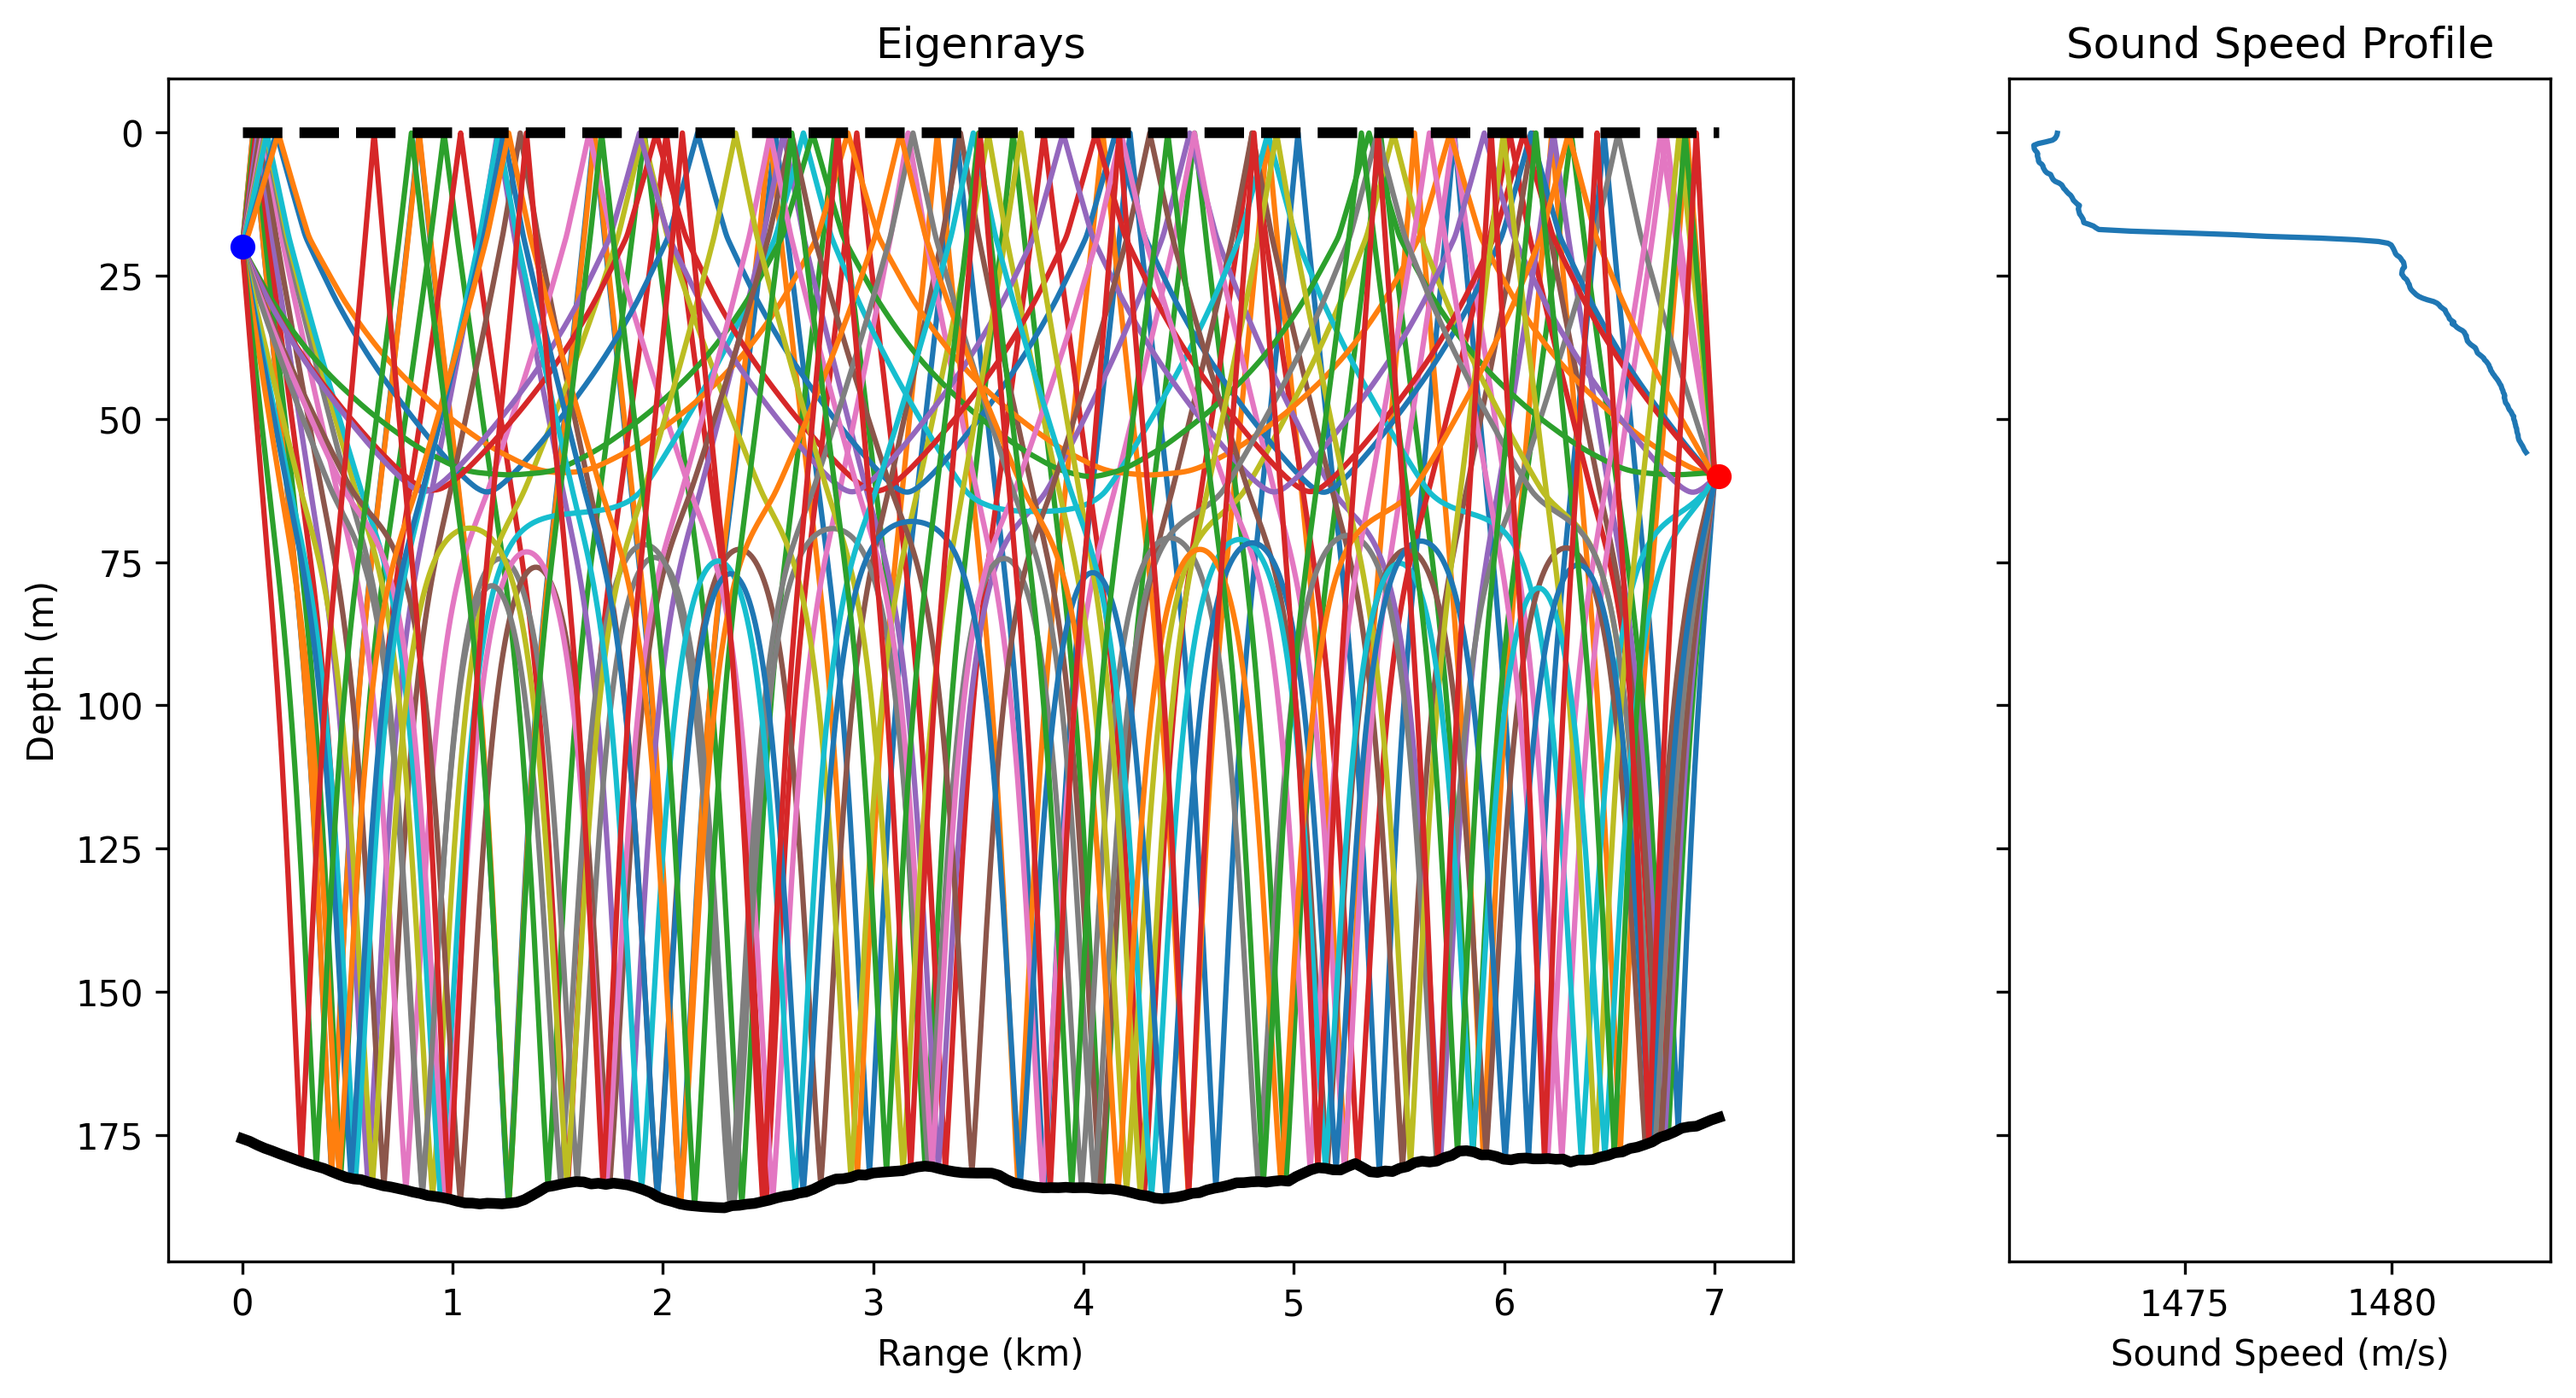
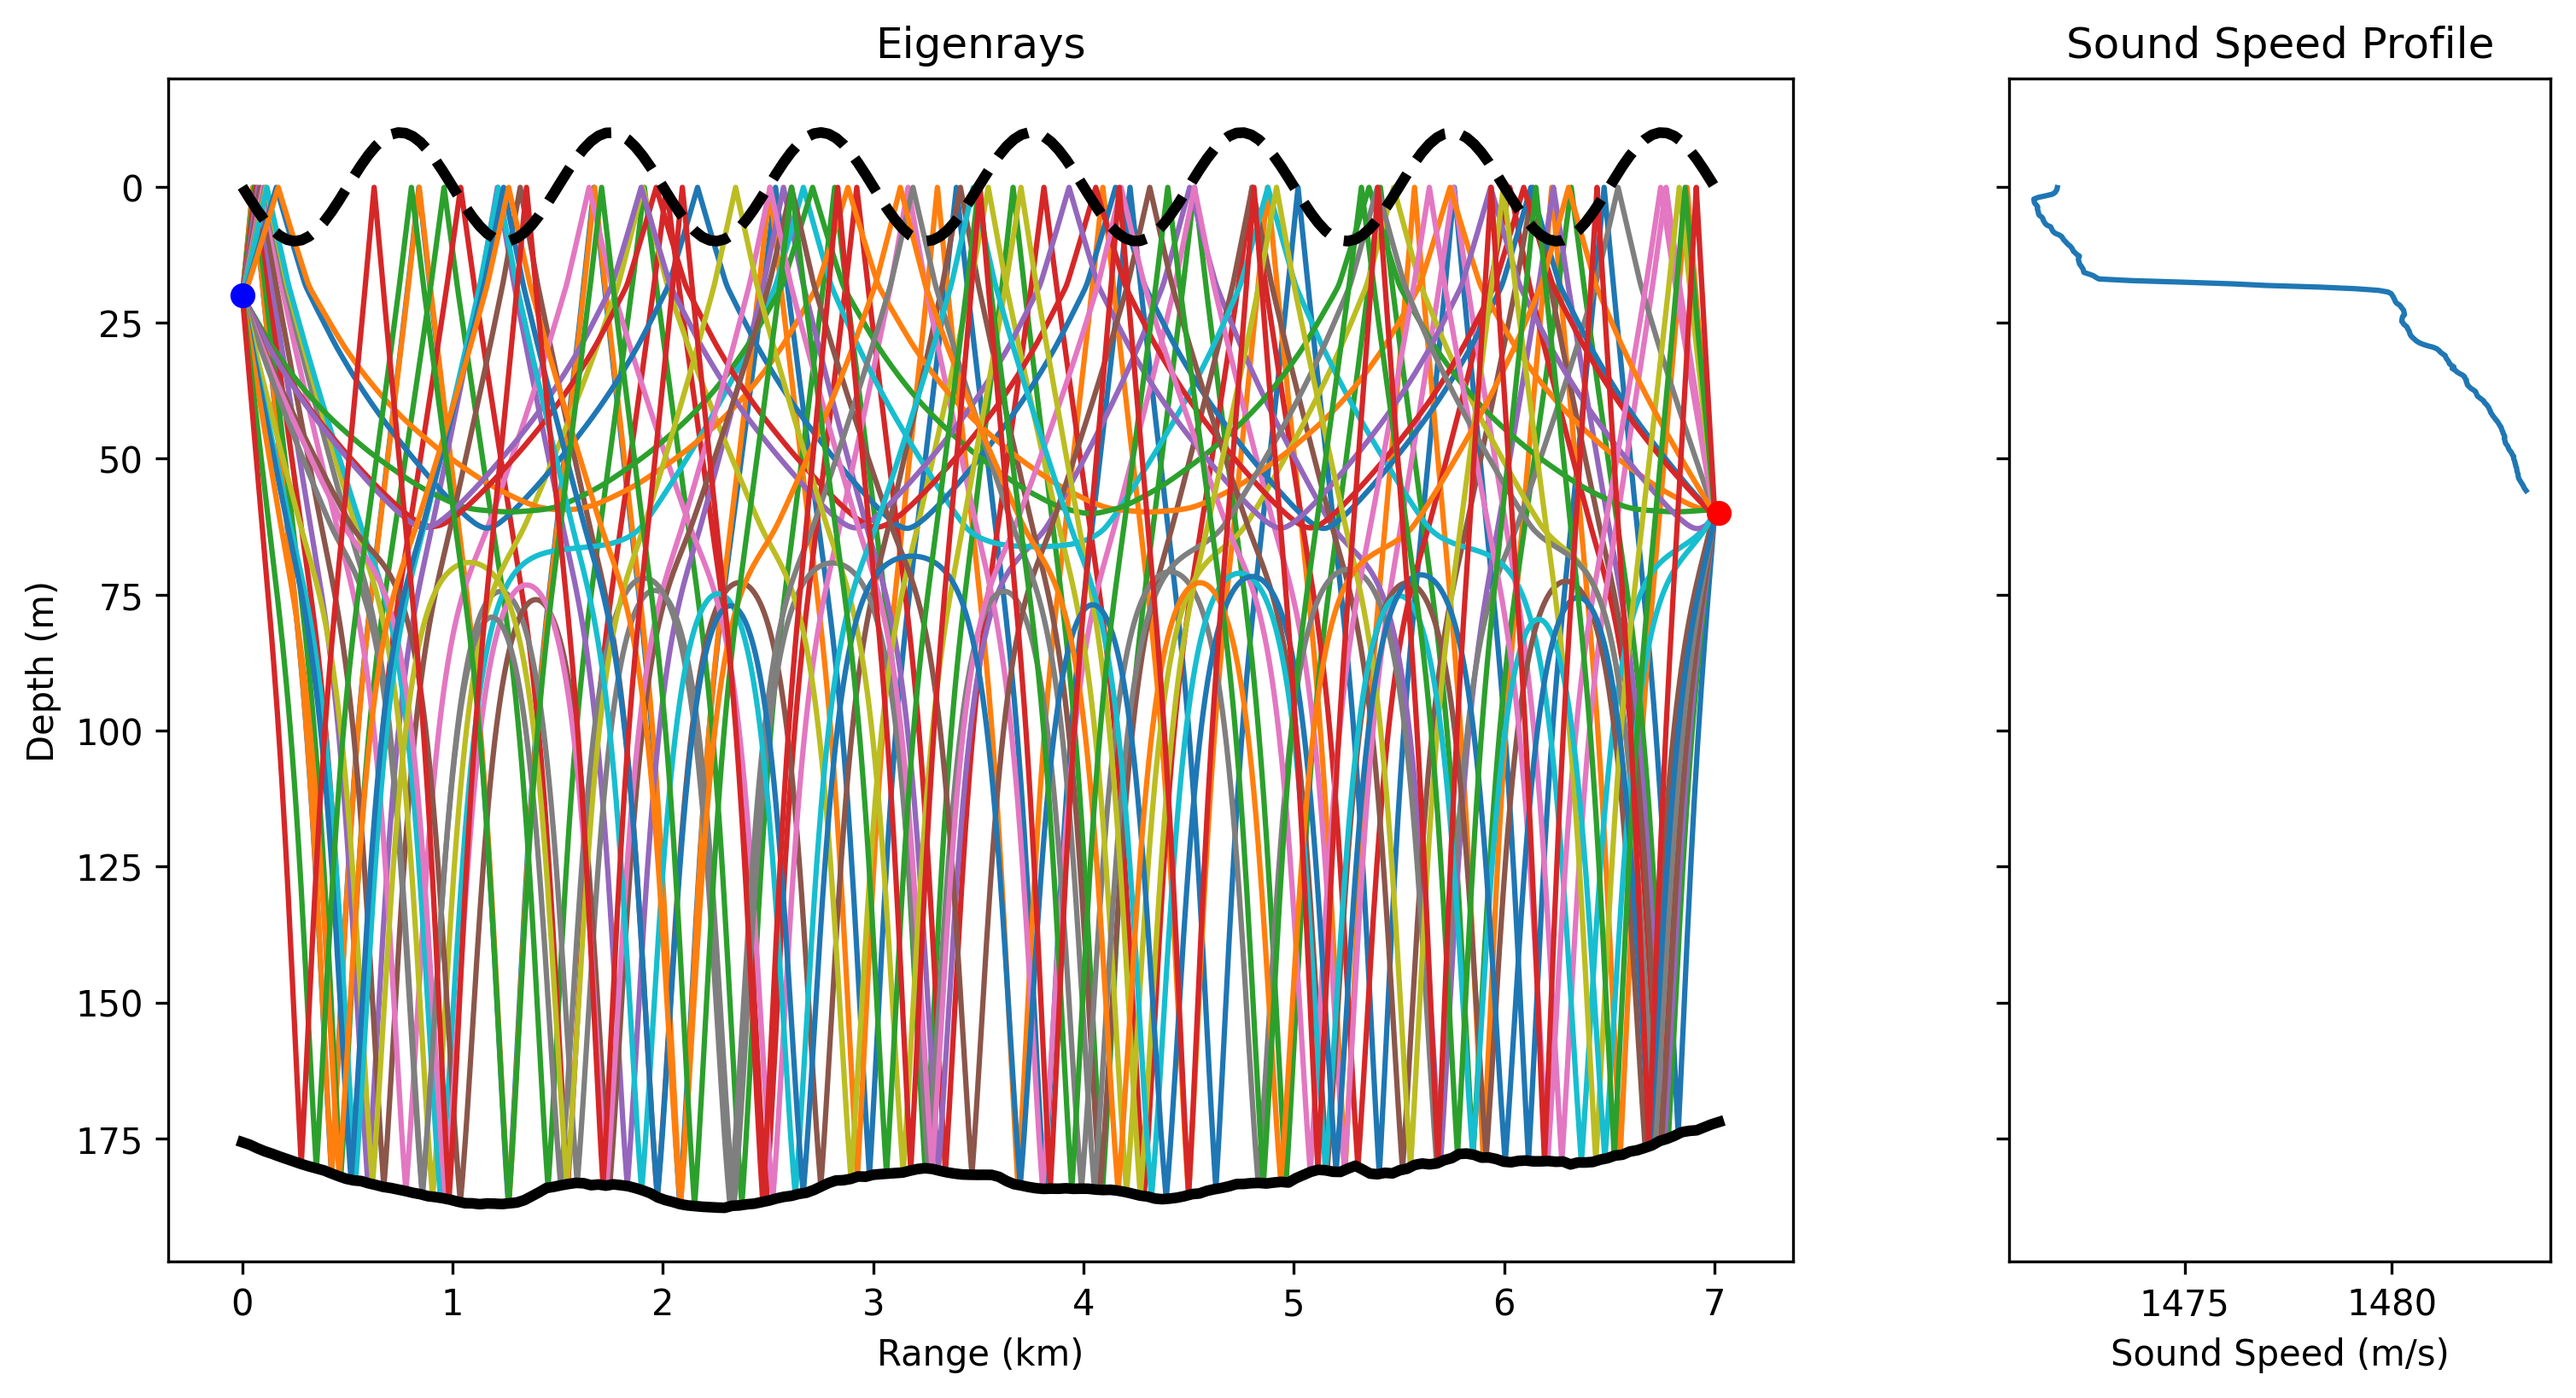
Updates

diff --git a/Justin_Work/ray.py b/Justin_Work/ray.py
@@ -10,6 +10,7 @@ class Write_RAY:
                  ssp=None,                   # Numpy array of Sound Speed Profile (same length as ssp_depths), (Meters/second)
                  bath_ranges=None,           # Numpy array of bathymetry range values (Kilometers)
                  bath_depths=None,           # Numpy array of bathymetry depths (same length as bath_ranges), (Meters)
+                 ati_depths=None,
                  freq=None,
                  nmedia=None,
                  sspopt=None,
@@ -40,6 +41,7 @@ class Write_RAY:
         self.ssp = ssp
         self.bath_ranges = bath_ranges
         self.bath_depths = bath_depths
+        self.ati_depths = ati_depths
         self.freq = freq
         self.nmedia = nmedia
         self.sspopt = sspopt
@@ -140,10 +142,23 @@ class Write_RAY:
                 f.write(f"{r:.2f}  {d:.1f} / \n")
         print(f".bty file written: {bty_path}")
 
+    def write_ati(self):
+        ati_path = os.path.join(self.dir, self.filename + ".ati")
+        if len(self.bath_ranges) != len(self.ati_depths):
+            raise ValueError("ranges_km and depths_m must be the same length.")
+    
+        with open(ati_path, 'w') as f:
+            f.write(f"'{self.pair}'\n")
+            f.write(f"{len(self.bath_ranges)},\n")
+            for r, d in zip(self.bath_ranges, self.ati_depths):
+                f.write(f"{r:.2f}  {d:.1f} / \n")
+        print(f".ati file written: {ati_path}")
+
     def write_files(self):
         self.write_ssp()
         self.write_bty()
-        self.write_env()
+        self.write_ati()
+        # self.write_env()
 
 
 class Read_RAY:
@@ -155,6 +170,7 @@ class Read_RAY:
                  ssp=None, 
                  bath_ranges=None, 
                  bath_depths=None, 
+                 ati_depths=None,
                  s_depth=None, 
                  r_depth=None, 
                  r_range=None,
@@ -173,6 +189,7 @@ class Read_RAY:
         self.ssp = ssp
         self.bath_ranges = bath_ranges
         self.bath_depths = bath_depths
+        self.ati_depths = ati_depths
         self.ray_file_path = self.dir + self.ray_file + ".ray"
         self.s_depth = s_depth
         self.r_depth = r_depth
@@ -276,9 +293,10 @@ class Read_RAY:
                     self.R = np.append(self.R, R) 
                     axs[0].plot(r,z, label=R_string)
 
-        sea_surface = np.zeros((len(self.bath_ranges)))
+        # sea_surface = np.zeros((len(self.bath_ranges)))
         axs[0].invert_yaxis()
-        axs[0].plot(self.bath_ranges, sea_surface, "--", color="black", linewidth=3)
+        # axs[0].plot(self.bath_ranges, sea_surface, "--", color="black", linewidth=3)
+        axs[0].plot(self.bath_ranges, self.ati_depths, "--", color="black", linewidth=3)
         axs[0].plot(0, self.s_depth, "bo", linewidth=3)
         axs[0].plot(self.r_range, self.r_depth, "ro", linewidth=3)
         axs[0].plot(self.bath_ranges, self.bath_depths, color="black", linewidth=3)

diff --git a/Justin_Work/arms_RAY.py b/Justin_Work/arms_RAY.py
@@ -21,6 +21,7 @@ track_info = io.loadmat(os.path.join(track_dir, "track_info.mat"))
 # Bathymetry (.bty file info)
 bath_ranges = np.squeeze(np.array(track_info["distances"]), axis=0) # Meters
 bath_depths = np.squeeze(np.array(track_info["profile"]), axis=0)
+ati_depths = np.ones_like(bath_ranges) * 10 * np.sin(2*np.pi*bath_ranges)
 
 # Sound Speed Profile (.ssp file info)
 ssp_data = io.loadmat(os.path.join(track_dir, "ARMS_firstDay_CTD_info.mat"))
@@ -35,7 +36,7 @@ ssp_depths = np.append(ssp_depths_, 200.0)
 freq = 50.0   # Hz
 nmedia = 1   # Number of media layers (water column SSP)
 sspopt = "SVW"   # C = linear, V = Variable
-bottom_type = "A*"   # A = fluid, A~ = fluid with no .bot file
+bottom_type = "A*"   # A = fluid
 roughness = 0.0   # Roughness
 bottom_depth = max(bath_depths)   # Bottom Depth (m)
 bottom_ss = 1600.0   # Meters per Second
@@ -67,6 +68,7 @@ shot_1_ray = Write_RAY(dir=directory,
                        ssp=ssp,
                        bath_ranges=bath_ranges,
                        bath_depths=bath_depths,
+                       ati_depths=ati_depths,
                        freq=freq,
                        nmedia=nmedia,
                        sspopt=sspopt,
@@ -101,7 +103,8 @@ shot_1_ray_plot = Read_RAY(directory=directory,
                            ssp_depths=ssp_depths, 
                            ssp=ssp,
                            bath_ranges=bath_ranges, 
-                           bath_depths=bath_depths,  
+                           bath_depths=bath_depths, 
+                           ati_depths=ati_depths, 
                            s_depth=sd[0], 
                            r_depth=rd[0], 
                            r_range=rr[0],
